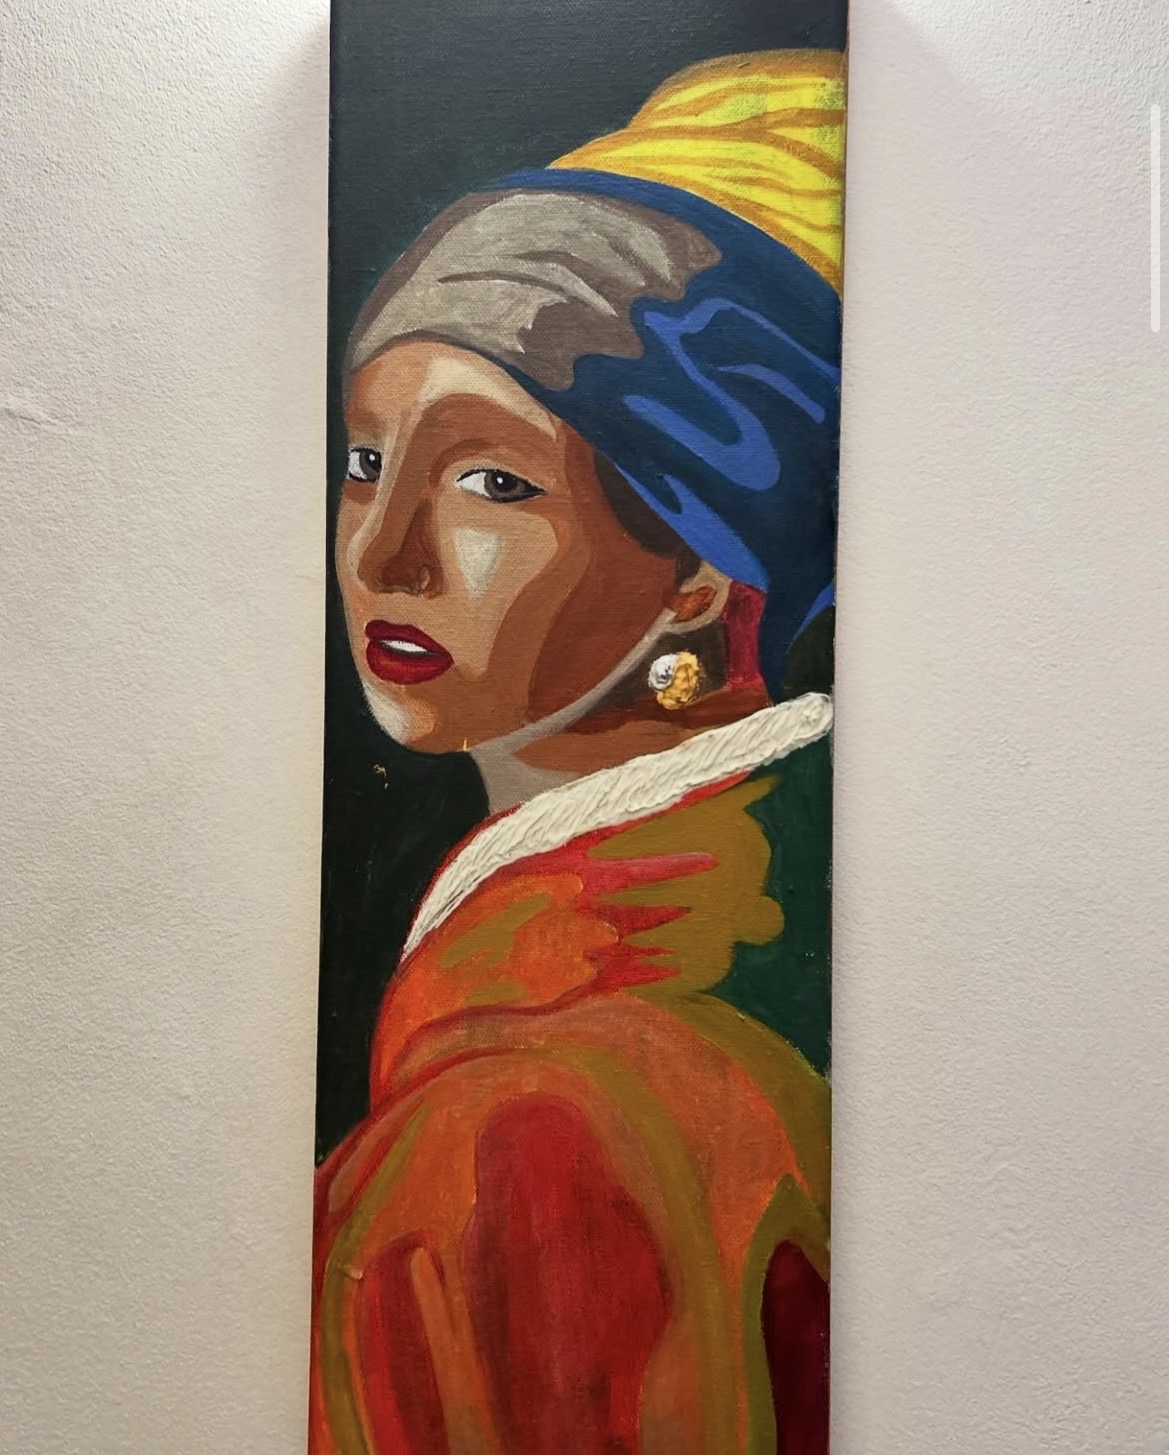
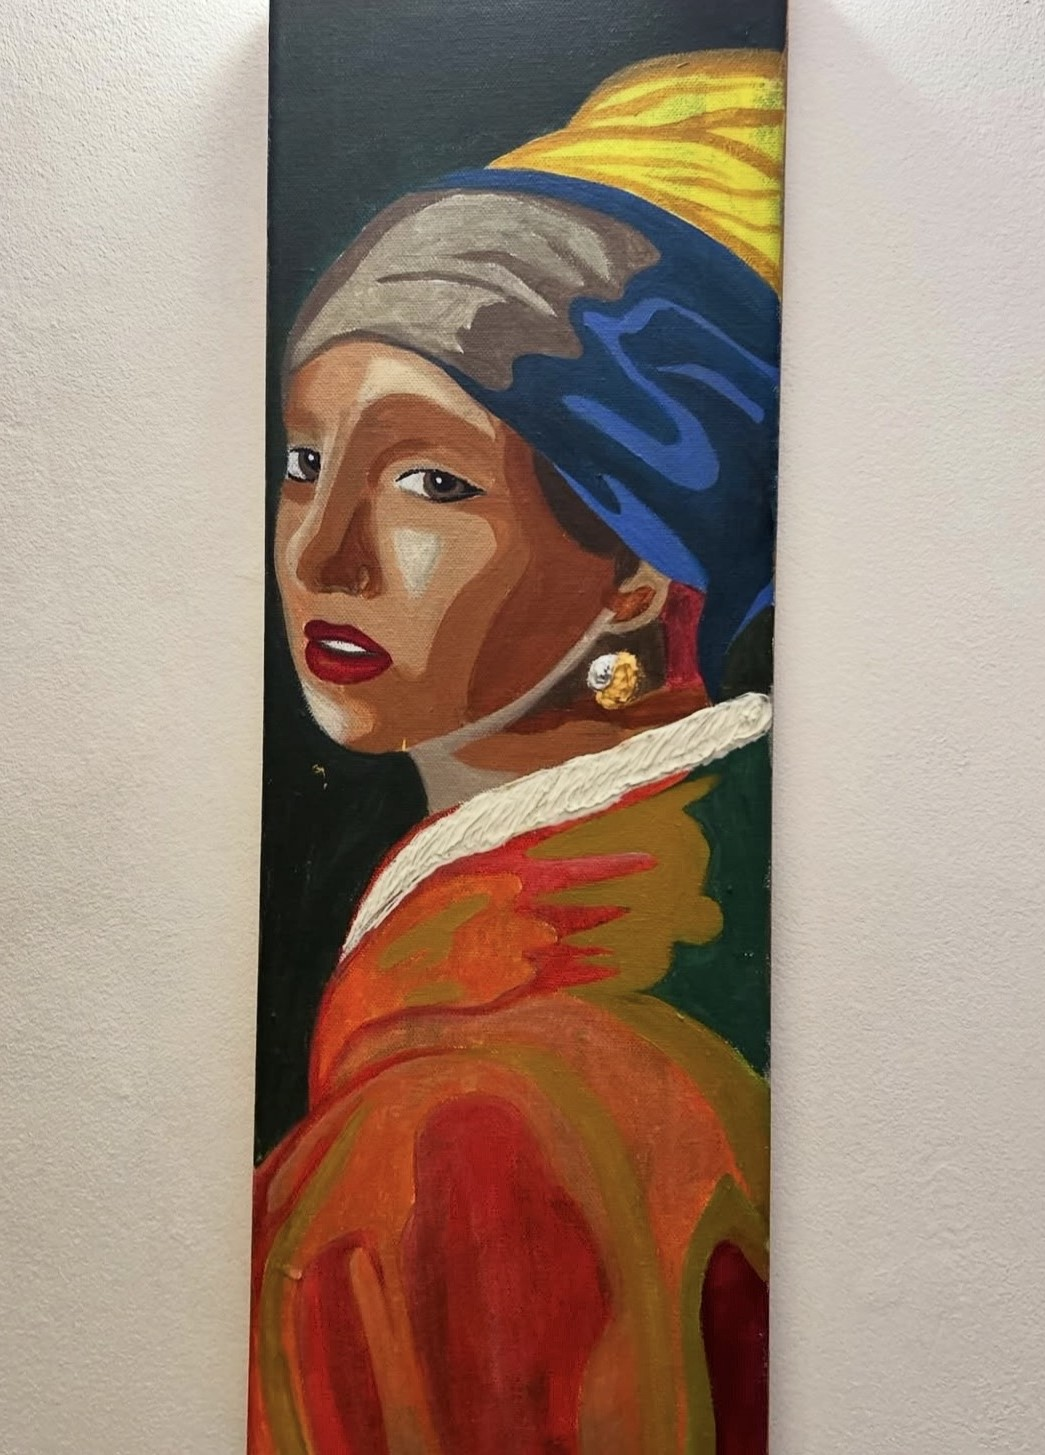
Crop first painting img and fix closing button position in gallery.html

diff --git a/gallery.html b/gallery.html
@@ -488,7 +488,7 @@
       }
 
       document.addEventListener("keydown", (e) => {
-        if (e.key === "Escape") closeLightbox();
+        if (e.key === "Escape" && e.key === "Enter") closeLightbox();
       });
 
       document.querySelectorAll(".artwork-card img").forEach((img) => {

diff --git a/css/style.css b/css/style.css
@@ -1582,8 +1582,8 @@ img {
 
 .lb-close{
     position: absolute;
-    top: -14px;
-    right: -14px;
+    top: -0%;
+    right: -0%;
     width:32px;
     height:32px;
     background: #F5F0E8;
